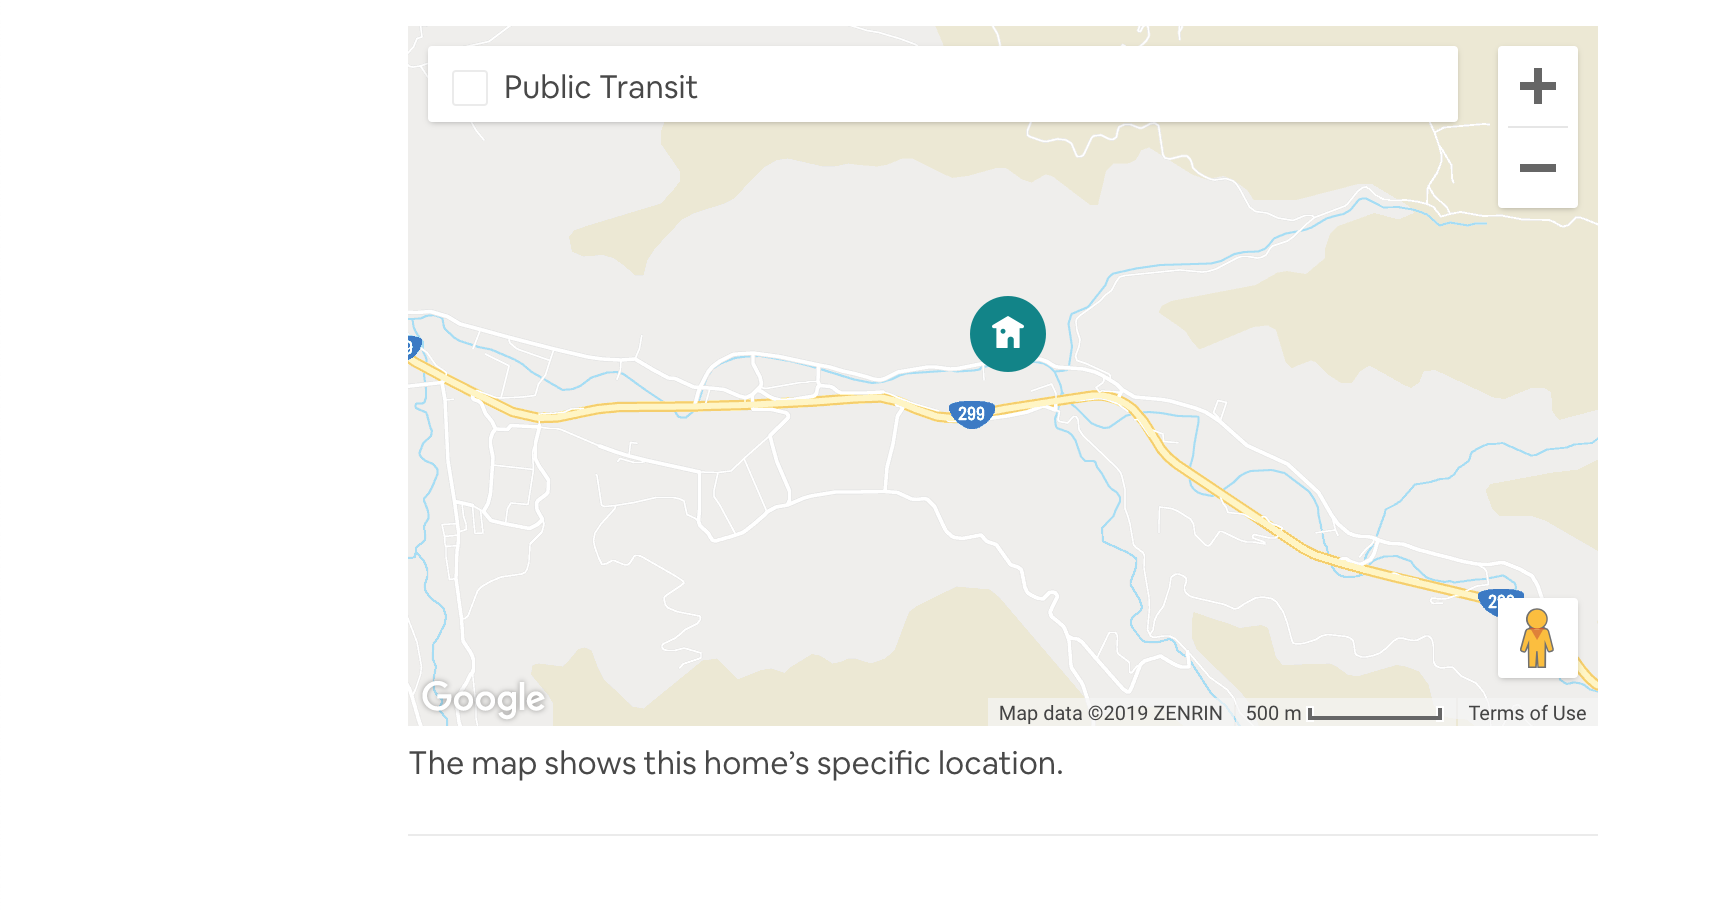
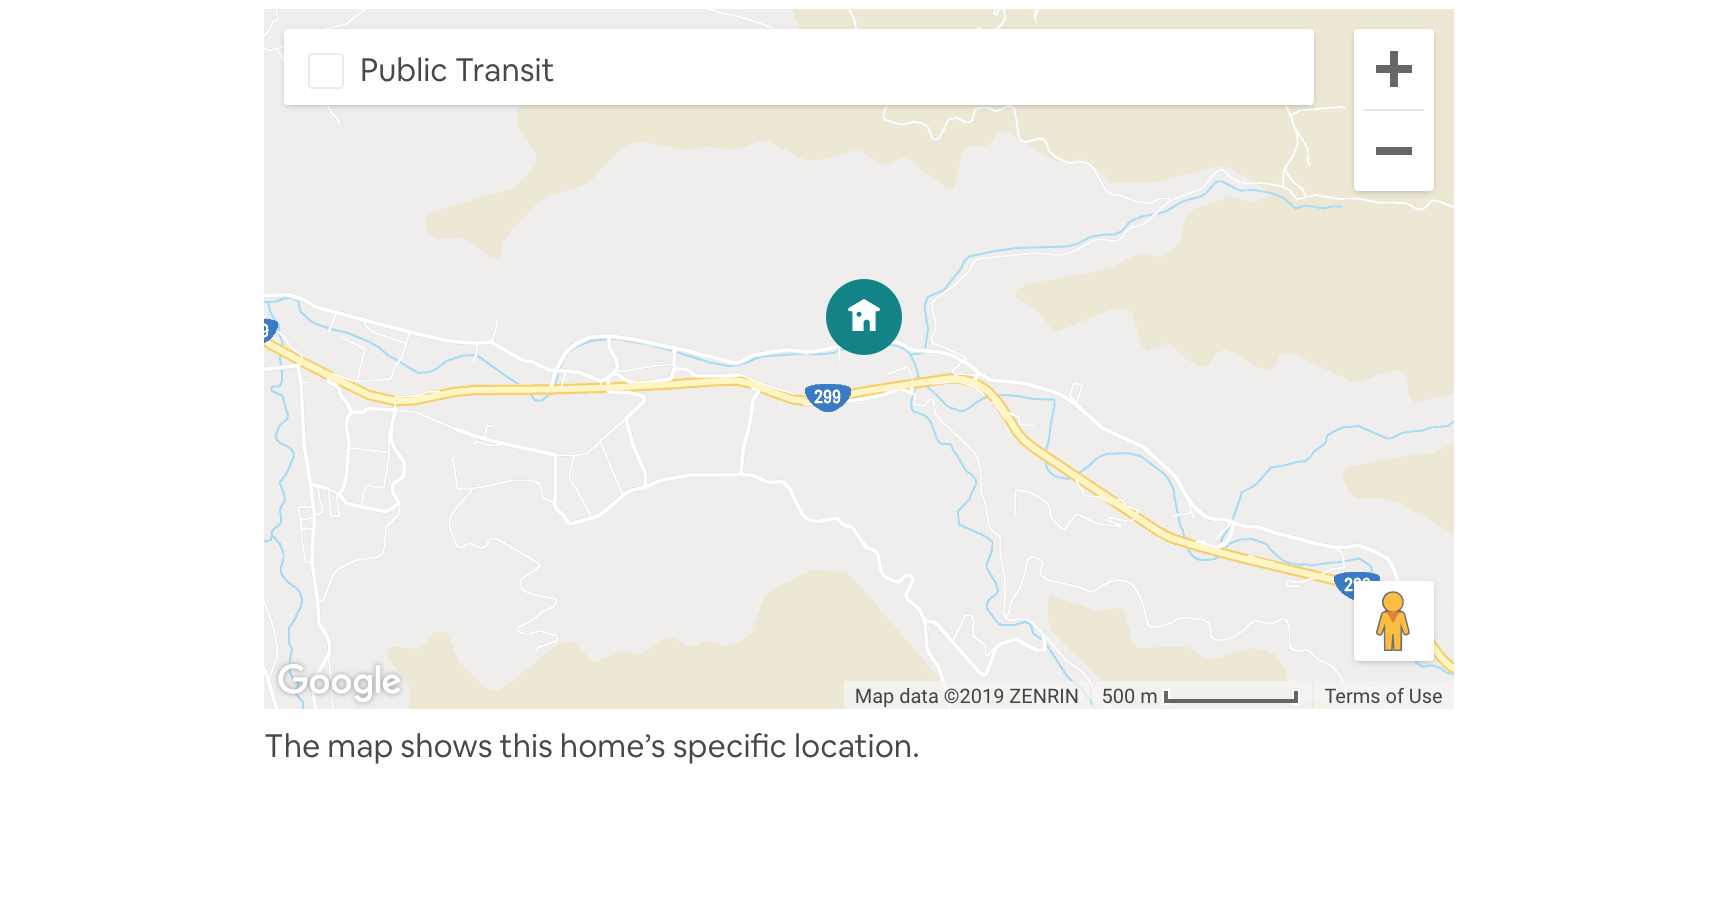
Add local screenshots for product presentation
Not uploading to S3 to avoid over-the-limit billing charges

diff --git a/public/index.html b/public/index.html
@@ -11,25 +11,63 @@
     <div id="photos"></div>
     <div id="offering-info">
       <div id="left-col">
-        <img id="description" src="./screenshots/description.png"/>
-        <img id="amenities" src="./screenshots/amenities.png"/>
-        <img id="calendar" src="./screenshots/calendar.png"/>
+        <picture>
+          <source srcset="./screenshots/description.webp" type="image/webp">
+          <source srcset="./screenshots/description.png" type="image/png">
+          <img id="description" src="./screenshots/description.png"/>
+        </picture>
+        <picture>
+          <source srcset="./screenshots/amenities.webp" type="image/webp">
+          <source srcset="./screenshots/amenities.png" type="image/png">
+          <img id="amenities" src="./screenshots/amenities.png"/>
+        </picture>
+        <picture>
+          <source srcset="./screenshots/calendar.webp" type="image/webp">
+          <source srcset="./screenshots/calendar.png" type="image/png">
+          <img id="calendar" src="./screenshots/calendar.png"/>
+        </picture>
+        
         <div id="reviews"></div>
-        <img id="host-bio" src="./screenshots/host-bio.png"/>
-        <img id="neighborhood" src="./screenshots/neighborhood.png"/>
-        <img id="map" src="./screenshots/map.png"/>
-        <img id="policies" src="./screenshots/policies.png"/>
+        
+        <picture>
+          <source srcset="./screenshots/host-bio.webp" type="image/webp">
+          <source srcset="./screenshots/host-bio.png" type="image/png">
+          <img id="host-bio" src="./screenshots/host-bio.png"/>
+        </picture>
+        <picture>
+          <source srcset="./screenshots/neighborhood.webp" type="image/webp">
+          <source srcset="./screenshots/neighborhood.png" type="image/png">
+          <img id="neighborhood" src="./screenshots/neighborhood.png"/>
+        </picture>
+        <picture>
+          <source srcset="./screenshots/map.webp" type="image/webp">
+          <source srcset="./screenshots/map.png" type="image/png">
+          <img id="map" src="./screenshots/map.png"/>
+        </picture>
+        <picture>
+          <source srcset="./screenshots/policies.webp" type="image/webp">
+          <source srcset="./screenshots/policies.png" type="image/png">
+          <img id="policies" src="./screenshots/policies.png"/>
+        </picture>
       </div>
       <div id="right-col">
         <div id="reservations"></div>
       </div>
     </div>
-    <img id="similar" src="./screenshots/similar.png"/>
-    <img id="other-things" src="./screenshots/other-things.png"/>
+    <picture>
+      <source srcset="./screenshots/similar.webp" type="image/webp">
+      <source srcset="./screenshots/similar.png" type="image/png">
+      <img id="similar" src="./screenshots/similar.png"/>
+    </picture>
+    <picture>
+      <source srcset="./screenshots/other-things.webp" type="image/webp">
+      <source srcset="./screenshots/other-things.png" type="image/png">
+      <img id="other-things" src="./screenshots/other-things.png"/>
+    </picture>
     
-    <script src="http://localhost:3001/bundle.js"></script>
-    <script src="http://localhost:3002/dist/bundle.js"></script>
-    <script src="http://localhost:3003/bundle.js"></script>
+    <script src="http://testlairdnd-env.35knfxdsa6.us-east-1.elasticbeanstalk.com/bundle.js"></script>
+    <script src="http://lairdndreviews.us-east-1.elasticbeanstalk.com/dist/bundle.js"></script>
+    <script src="http://ec2-3-16-89-36.us-east-2.compute.amazonaws.com/bundle.js"></script>
     <script>
       ReactDOM.render(
         React.createElement(Photos), 
@@ -39,9 +77,16 @@
         React.createElement(Review), 
         document.getElementById('reviews')
       );
+
+      let offeringId = window.location.pathname.slice(1);
+      if (typeof parseInt(offeringId) !== 'number' || parseInt(offeringId) > 100) {
+        window.location.href = '/1';
+      }
+      if (offeringId === '') offeringId = 1;
+
       ReactDOM.render(
         React.createElement(Reservation, {
-          offeringId: 4,
+          offeringId,
           guestId: 2
         }), 
         document.getElementById('reservations')

diff --git a/public/styles.css b/public/styles.css
@@ -3,20 +3,21 @@
 }
 
 #offering-info {
+  width: 100vw;
   display: flex;
+  flex-direction: row;
+  justify-content: center;
+  padding: 10px 20px;
 }
 
 #left-col {
-  padding-top: 20px;
-  width: 50%;
-  order: 1;
+  width: 60%;
+  display: flex;
   flex-direction: column;
-  flex-grow: 2;
-  object-fit: contain;
+  align-items: center;
 }
 
 #right-col {
-  padding-top: 20px;
   order: 2;
   flex-grow: 1;
 }
@@ -31,7 +32,6 @@
 #similar,
 #other-things {
   width: 100%;
-  object-fit: contain;
 }
 
 #similar,
@@ -40,11 +40,9 @@
 }
 
 #reviews {
-  float: right;
-  padding-right: 75px;
+  margin-bottom: 20px;
 }
 
 #reservations {
   display: inline-block;
-  vertical-align: top;
 }

diff --git a/server/index.js b/server/index.js
@@ -1,14 +1,17 @@
 let express = require('express');
 let app = express();
 let path = require('path');
-let axios = require('axios');
 
-const port = process.env.port || 3000;
+const port = process.env.PORT || 3000;
 
-let staticPathway = path.join(__dirname, '../public');
+let staticPathway = path.join(__dirname, '/../public/');
 let staticAssets = express.static(staticPathway);
 app.use(staticAssets);
 
+app.get('/:offeringId', (req, res) => {
+  res.sendFile(staticPathway);
+});
+
 app.listen(port, () => {
   console.log(`Currently listening on port ${port}`);
-})
+});
